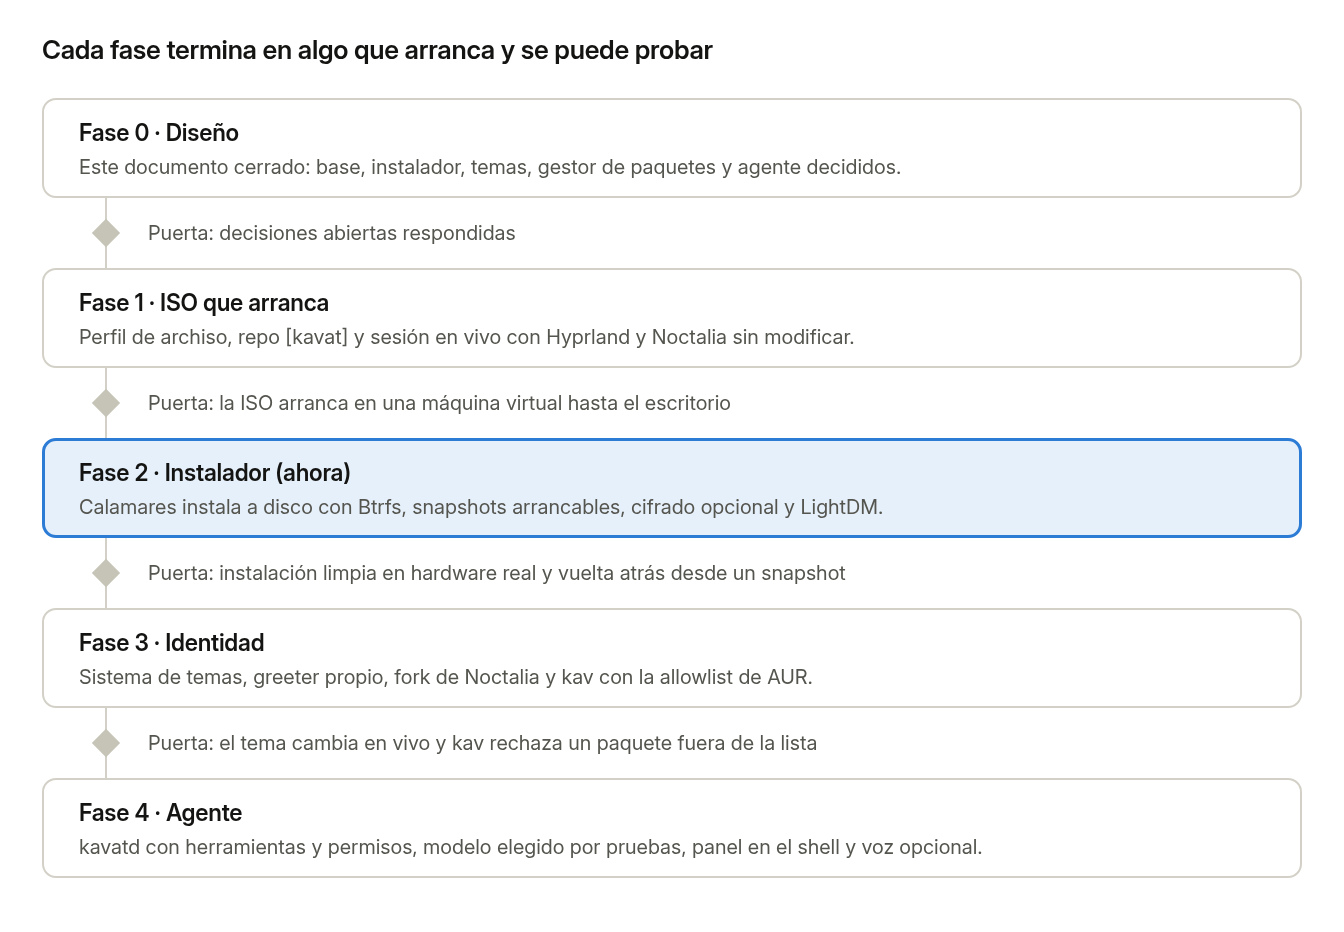
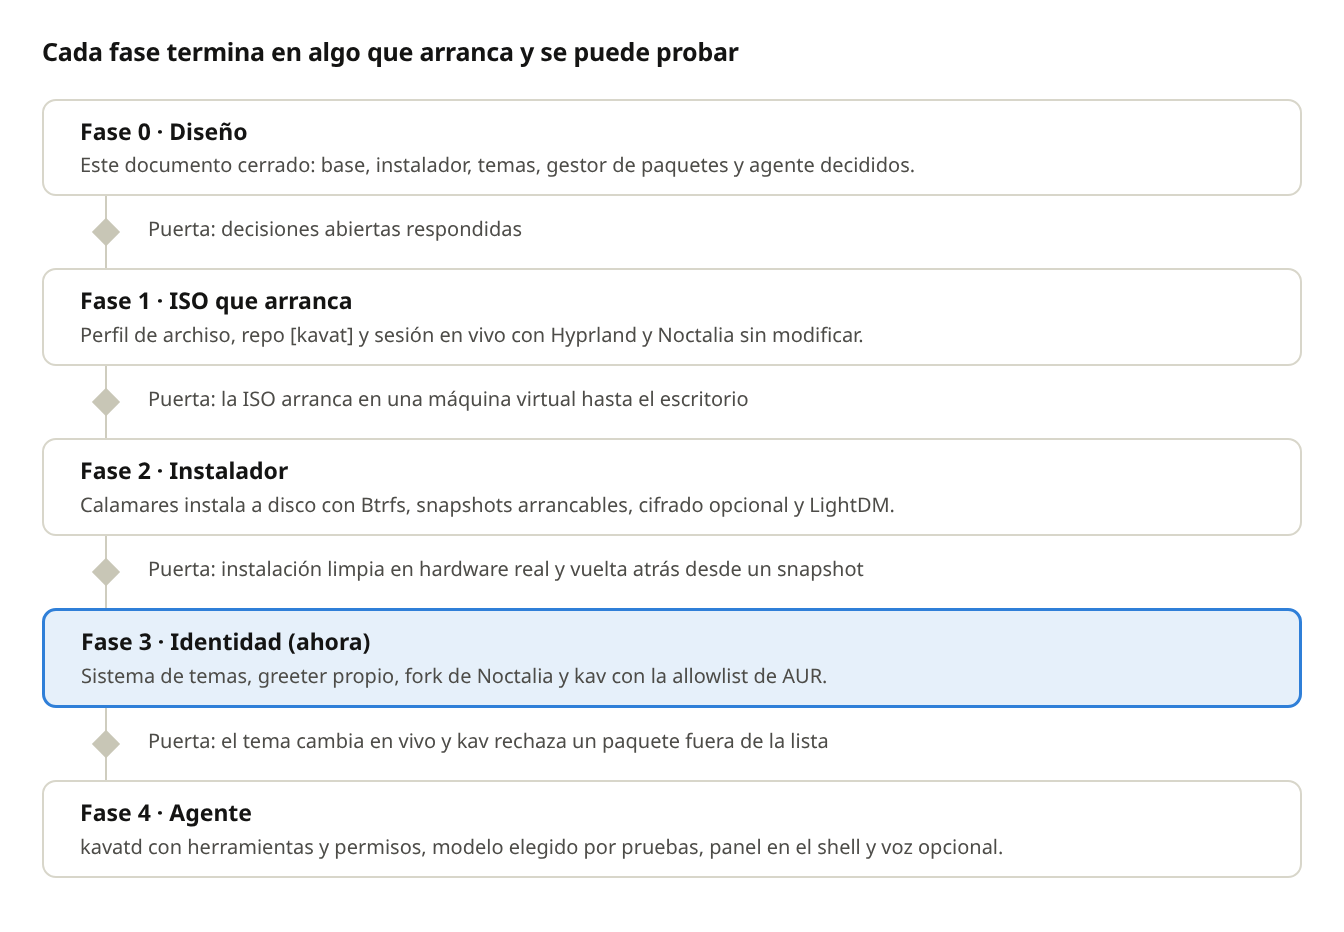
Phase 3 starts: installer window no longer stays dimmed, one splash on the kernel line, roadmap redrawn
Hyprland left a window dimmed after one of its dialogs closed, so dim_modal is off.
The roadmap diagram now has its source in docs/img/roadmap.html.

diff --git a/docs/img/roadmap.html b/docs/img/roadmap.html
@@ -1,0 +1,23 @@
+<!doctype html><meta charset="utf-8">
+<style>
+*{box-sizing:border-box;margin:0}
+body{width:672px;padding:18px 21px 0;background:#fff;color:#141413;font:400 10px/1.3 Inter,"Inter Variable",system-ui,sans-serif;-webkit-font-smoothing:antialiased}
+h1{font-size:12.5px;font-weight:600;letter-spacing:-.01em;margin-bottom:15px}
+.box{border:1px solid #d8d6ca;border-radius:7px;padding:8px 18px 8px}
+.box b{display:block;font-size:11.5px;font-weight:600;margin-bottom:3px}
+.box span{color:#4d4c48}
+.now{border:1.5px solid #2f7fd8;background:#e6f0fa}
+.gate{position:relative;height:36px;padding:10px 0 0 53px;color:#4d4c48}
+.gate:before{content:"";position:absolute;left:31.5px;top:0;bottom:0;border-left:1px solid #cfcdbf}
+.gate:after{content:"";position:absolute;left:27px;top:13px;width:10px;height:10px;background:#c8c6b6;transform:rotate(45deg)}
+</style>
+<h1>Cada fase termina en algo que arranca y se puede probar</h1>
+<div class="box"><b>Fase 0 · Diseño</b><span>Este documento cerrado: base, instalador, temas, gestor de paquetes y agente decididos.</span></div>
+<div class="gate">Puerta: decisiones abiertas respondidas</div>
+<div class="box"><b>Fase 1 · ISO que arranca</b><span>Perfil de archiso, repo [kavat] y sesión en vivo con Hyprland y Noctalia sin modificar.</span></div>
+<div class="gate">Puerta: la ISO arranca en una máquina virtual hasta el escritorio</div>
+<div class="box"><b>Fase 2 · Instalador</b><span>Calamares instala a disco con Btrfs, snapshots arrancables, cifrado opcional y LightDM.</span></div>
+<div class="gate">Puerta: instalación limpia en hardware real y vuelta atrás desde un snapshot</div>
+<div class="box now"><b>Fase 3 · Identidad (ahora)</b><span>Sistema de temas, greeter propio, fork de Noctalia y kav con la allowlist de AUR.</span></div>
+<div class="gate">Puerta: el tema cambia en vivo y kav rechaza un paquete fuera de la lista</div>
+<div class="box"><b>Fase 4 · Agente</b><span>kavatd con herramientas y permisos, modelo elegido por pruebas, panel en el shell y voz opcional.</span></div>

diff --git a/docs/DESIGN.md b/docs/DESIGN.md
@@ -74,7 +74,6 @@ Ideas propias sobre el Calamares de serie:
 - **Módulo `kavat-hardware`**: escribe la configuración de Hyprland según monitores y GPU detectados.
 - **Instalación sin red**: la ISO lleva los paquetes del sistema base; con red se actualiza al final y se añade el software elegido.
 
-Pendiente para la fase 3, visto en la instalación real: al elegir la partición en «Replace a partition», toda la ventana del instalador se oscurece y no se aclara hasta empezar la instalación. No impide instalar. Se reproduce en máquina virtual; la sospecha es que Hyprland oscurece la ventana porque Calamares deja abierto un diálogo modal invisible.
 - **Archivo de respuestas**: un `kavat-install.toml` en el USB reinstala tu máquina sin tocar nada.
 - **Primer arranque**: un asistente dentro de Noctalia termina lo que no pertenece al instalador (cuentas, llaves SSH, descarga del modelo).
 

diff --git a/CLAUDE.md b/CLAUDE.md
@@ -17,7 +17,7 @@ Todo el diseño vive en el repo, para que llegue igual a cualquier equipo. Son t
 
 El usuario llama «artifact» tanto a los dos documentos como al mockup. Hasta el 11 de noviembre de 2026 los dos documentos vivían en claude.ai y `docs/DESIGN.md` era una exportación; esas copias de claude.ai ya no se usan ni se actualizan.
 
-Los dos diagramas del documento de diseño son imágenes en `docs/img/` y no tienen fuente en el repo: si cambian, se redibujan.
+Los dos diagramas del documento de diseño son imágenes en `docs/img/`. El del roadmap sale de `docs/img/roadmap.html`: se edita ese archivo y se captura con Chromium sin ventana, a 672×466 y escala 2. El de la arquitectura no tiene fuente en el repo: si cambia, se redibuja.
 
 ## Cómo se cambia el diseño
 
